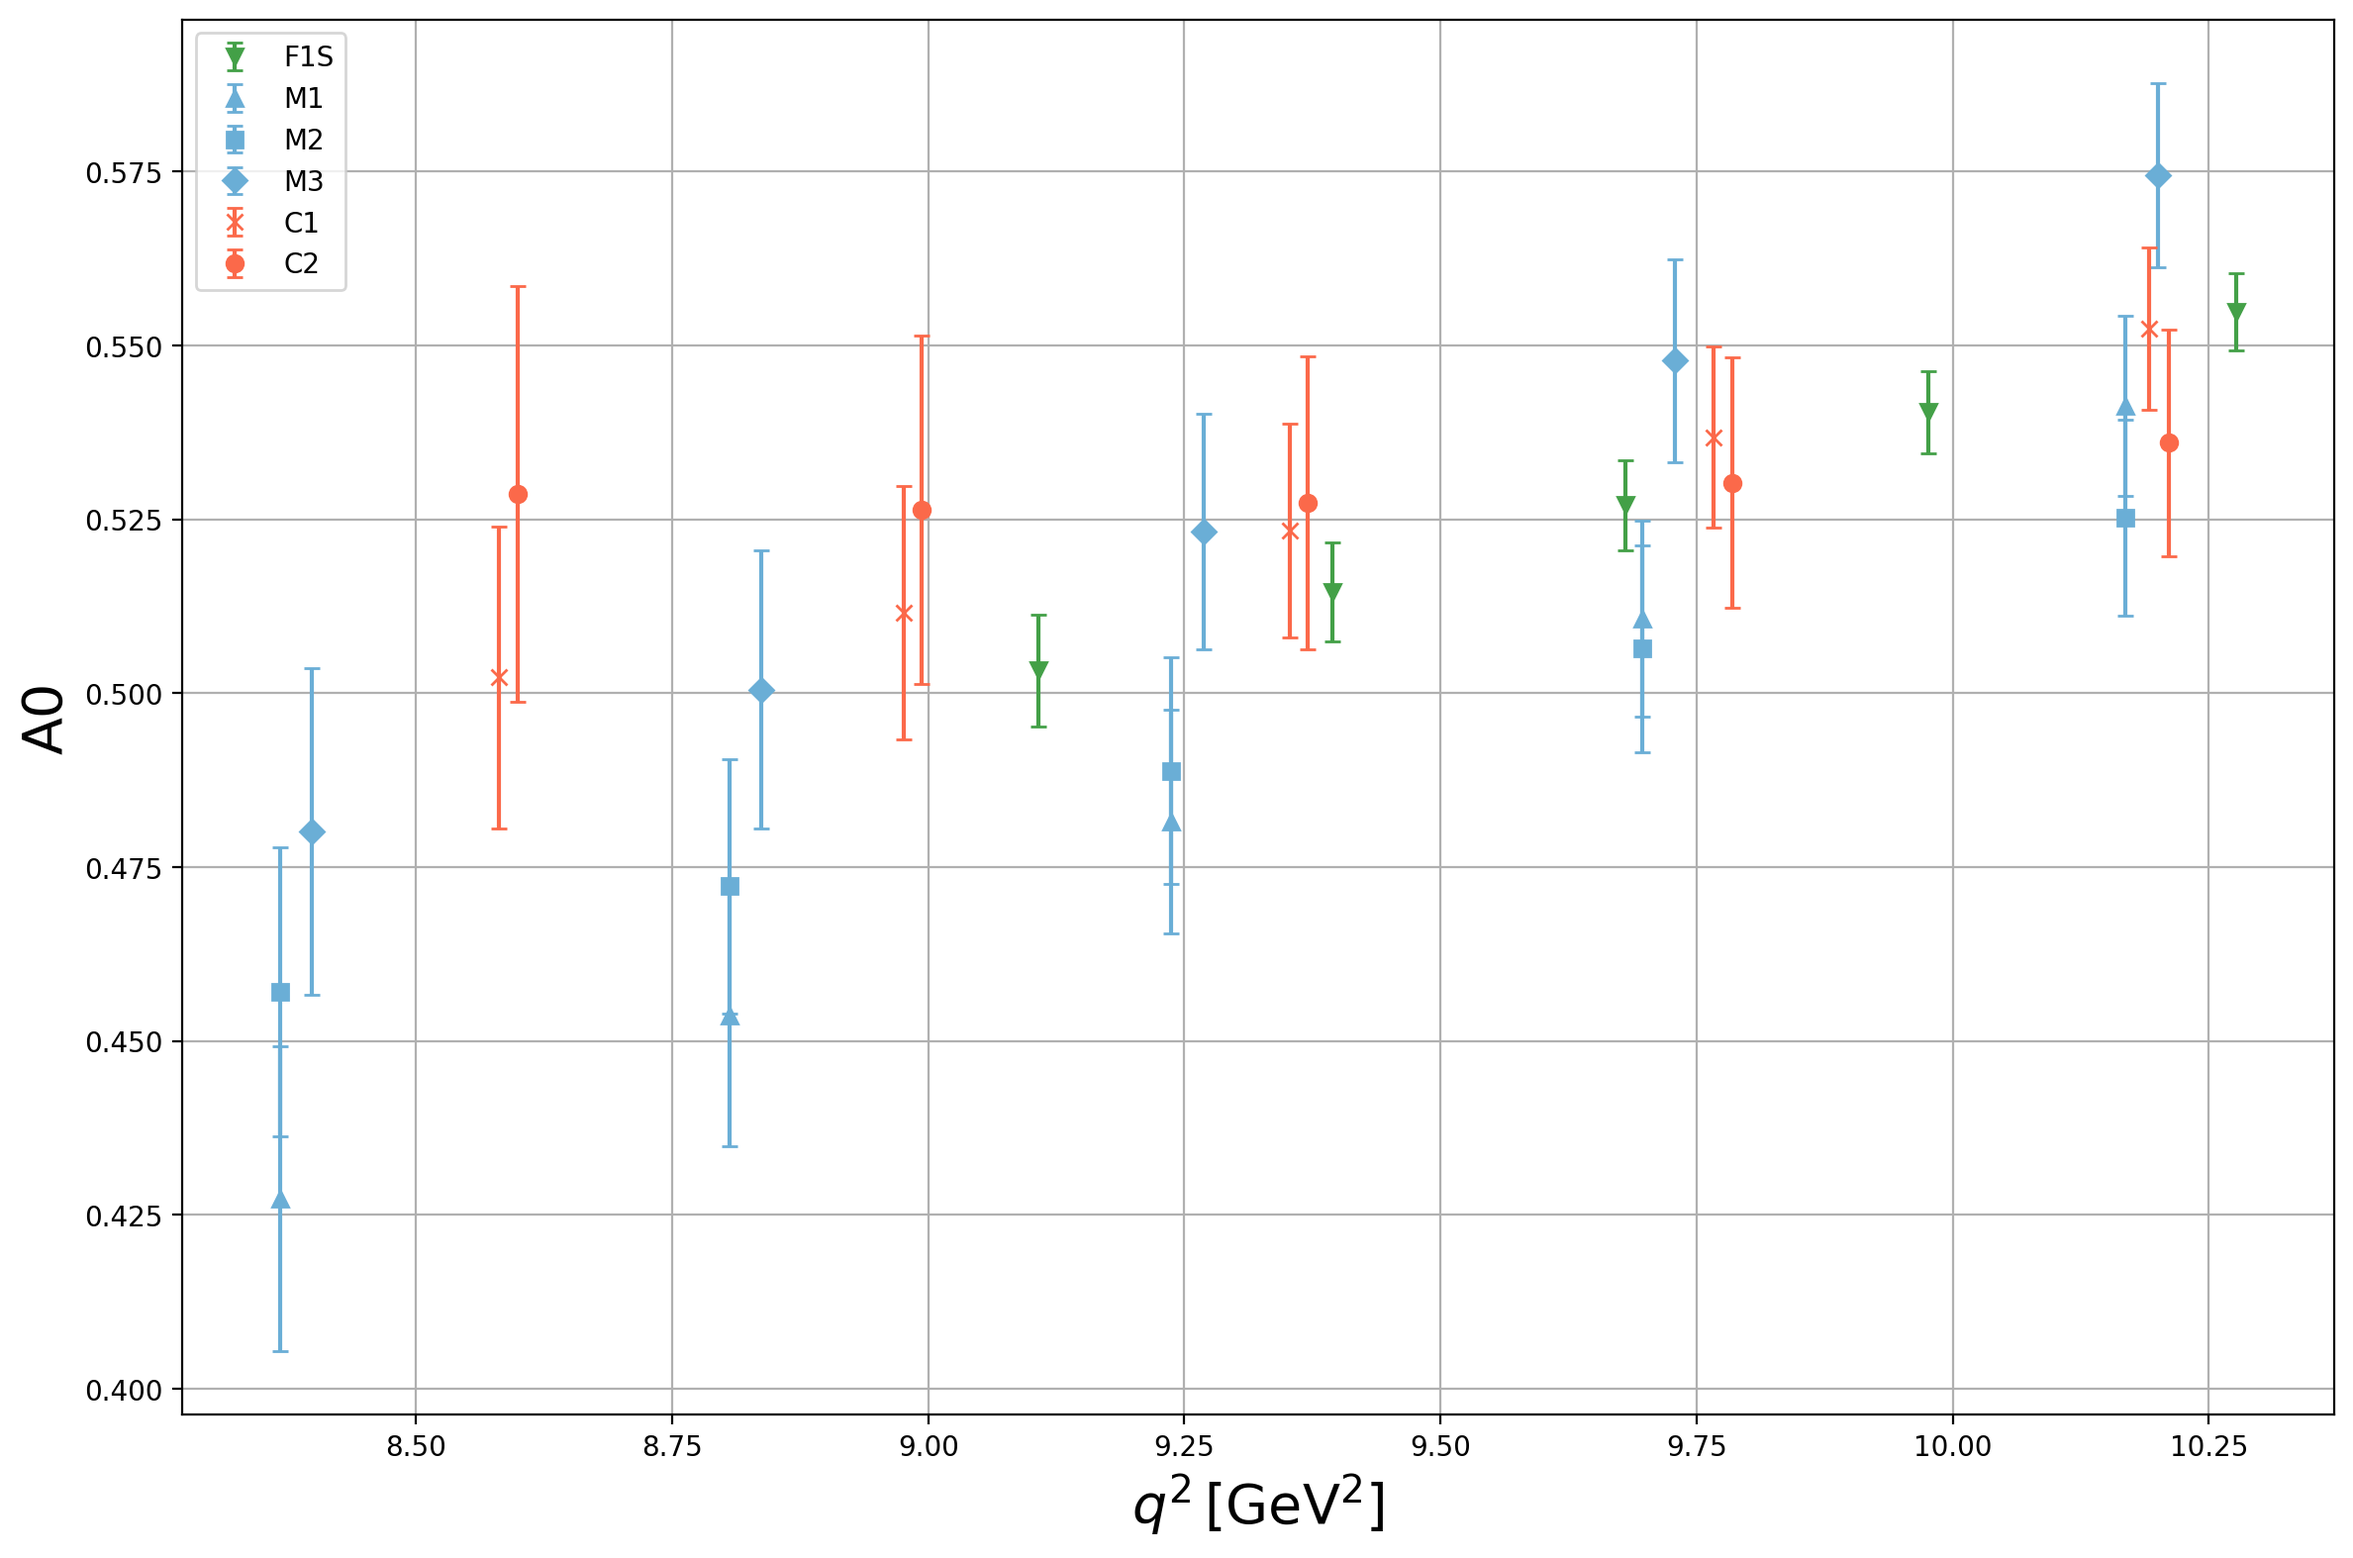
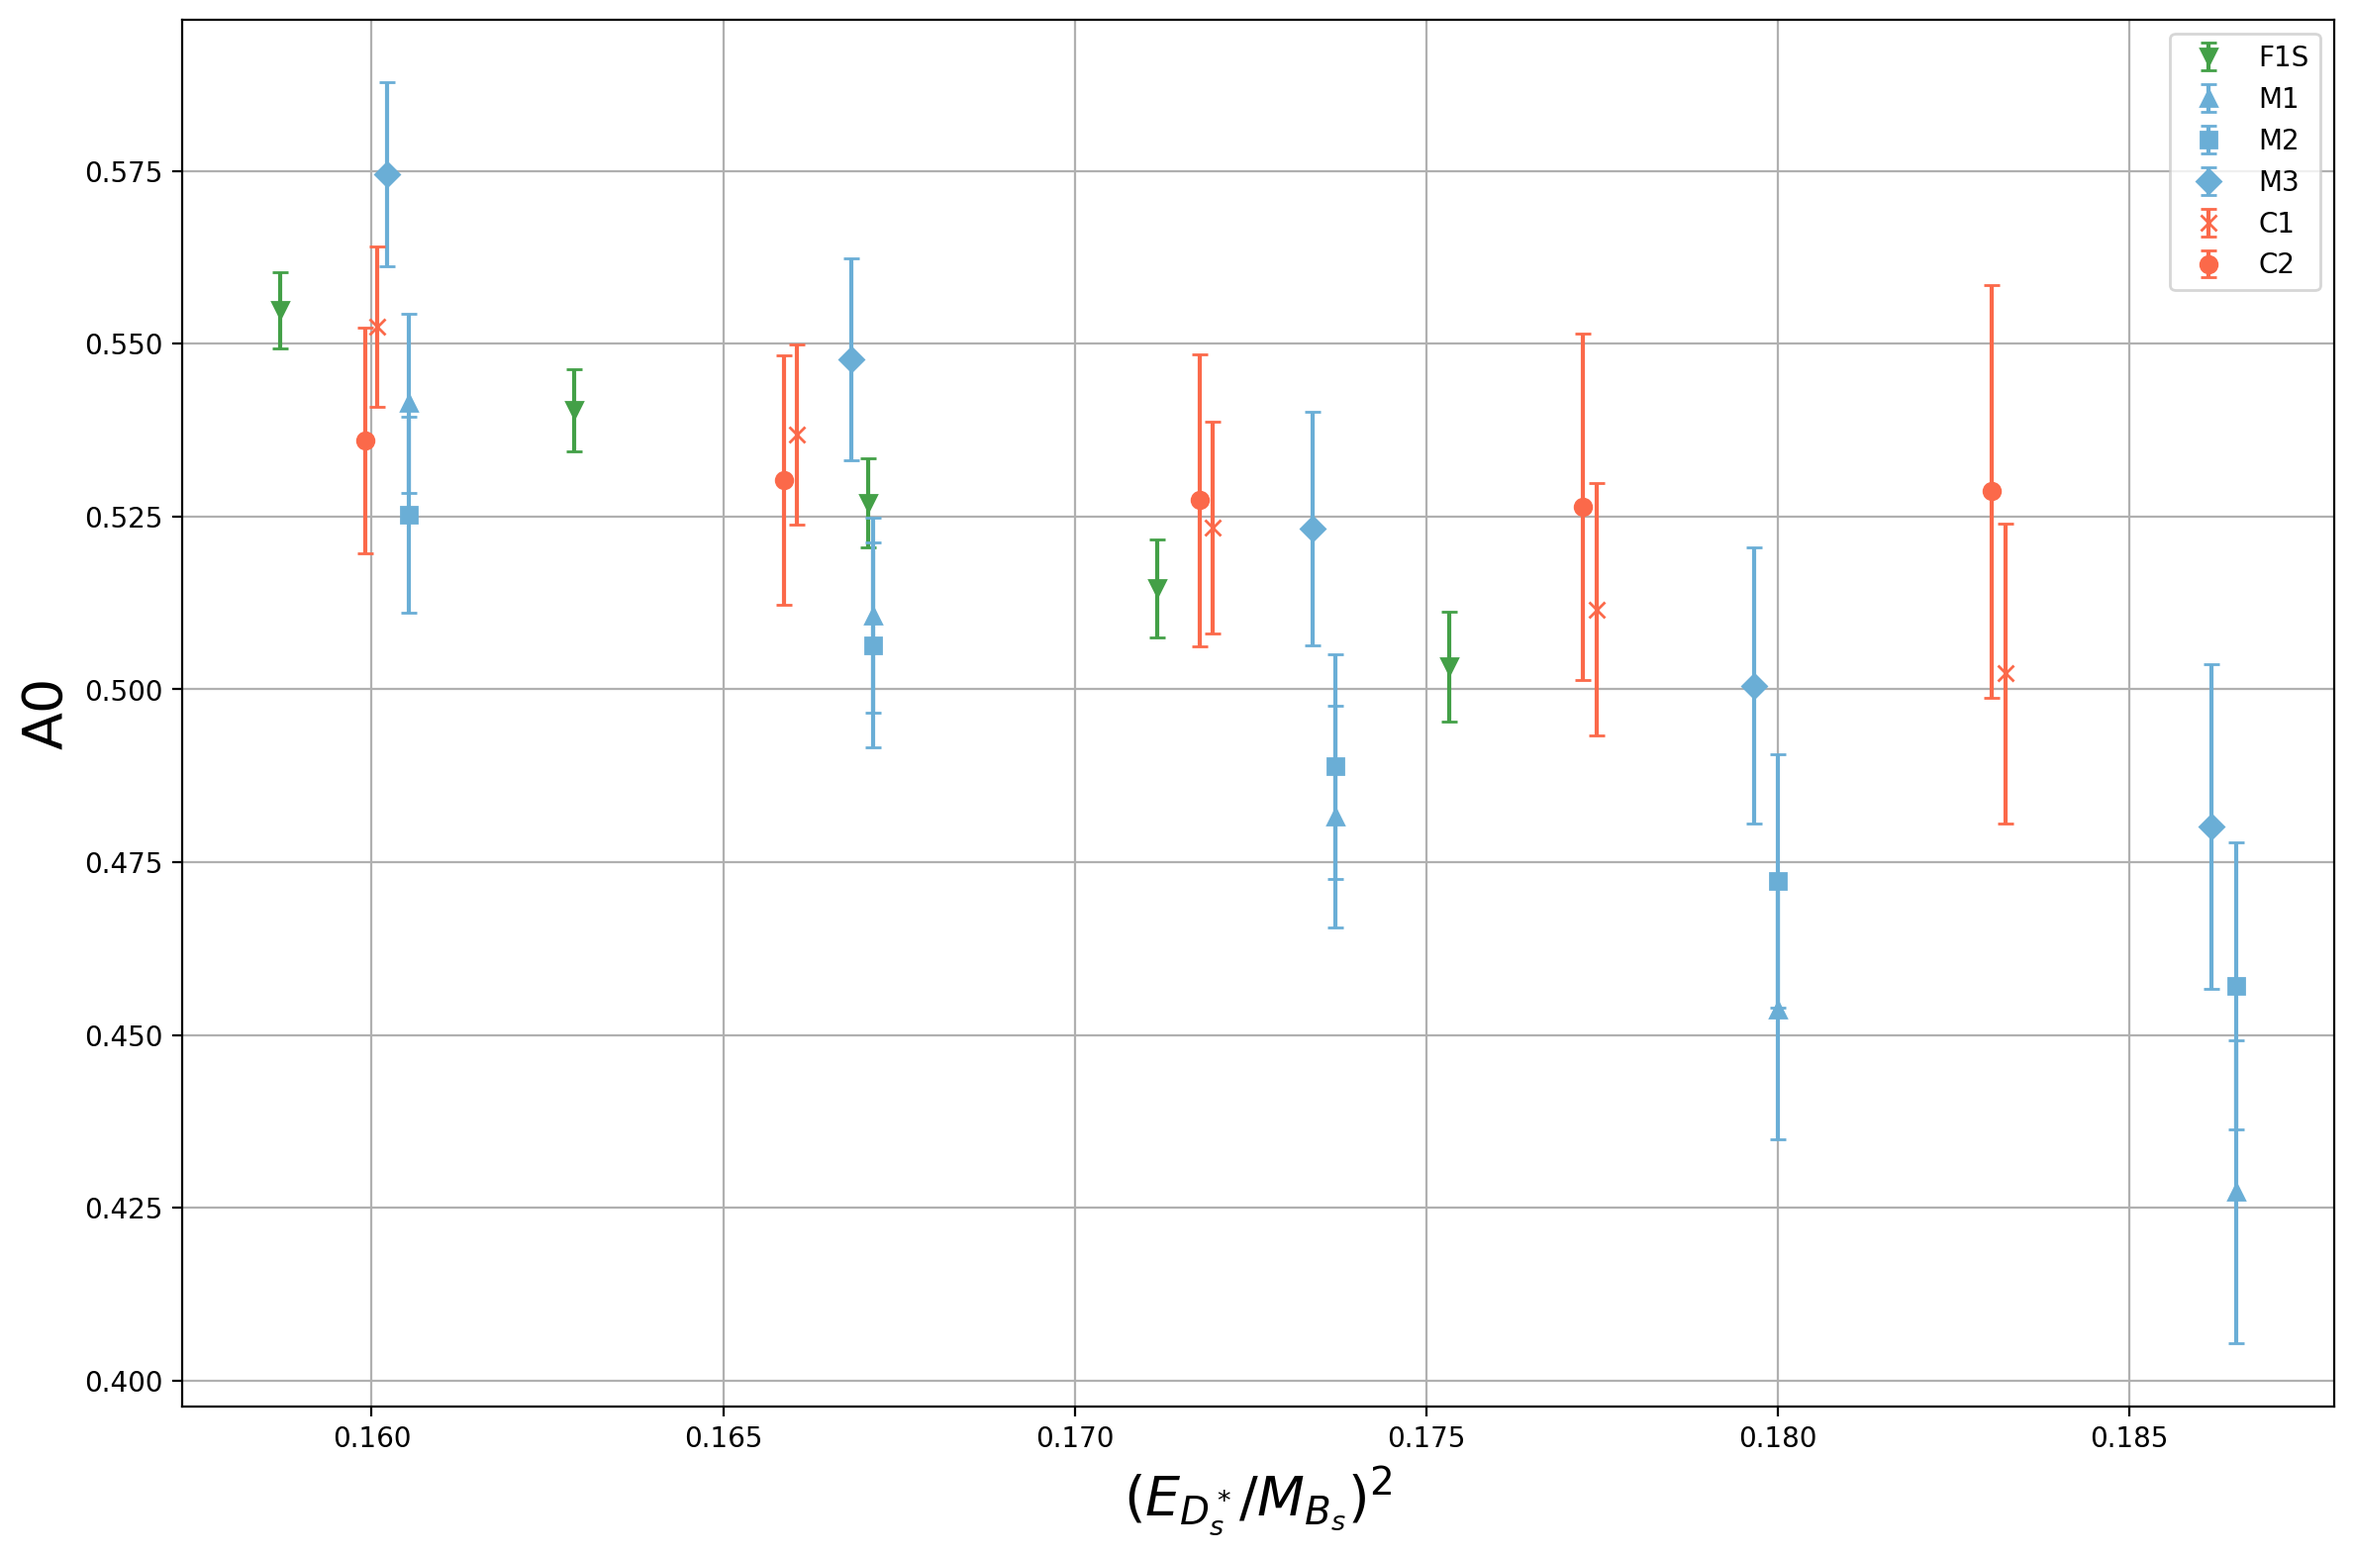
final plot

diff --git a/Code/Plot-Final-Charm.py b/Code/Plot-Final-Charm.py
@@ -228,7 +228,7 @@ def make_plot(FF, outname):
         y_vals = [prefactor * y for y in y_vals_raw]
         y_errs = [prefactor * e for e in y_errs_raw]
 
-        
+        '''
         plt.errorbar(
             x_vals, y_vals, yerr=y_errs,
             fmt=marker,
@@ -245,11 +245,11 @@ def make_plot(FF, outname):
             capsize=3,
             label=f"{ens}"
         )
-        '''
+        
 
     plt.legend()
-    plt.xlabel(r"$q^2\,[\mathrm{GeV}^2]$", fontsize=20)
-    #plt.xlabel(r"$(E_{D_s^*}/M_{B_s})^2$", fontsize=20)
+    #plt.xlabel(r"$q^2\,[\mathrm{GeV}^2]$", fontsize=20)
+    plt.xlabel(r"$(E_{D_s^*}/M_{B_s})^2$", fontsize=20)
     plt.ylabel(FF, fontsize=20)
     plt.grid(True)
     plt.tight_layout()
